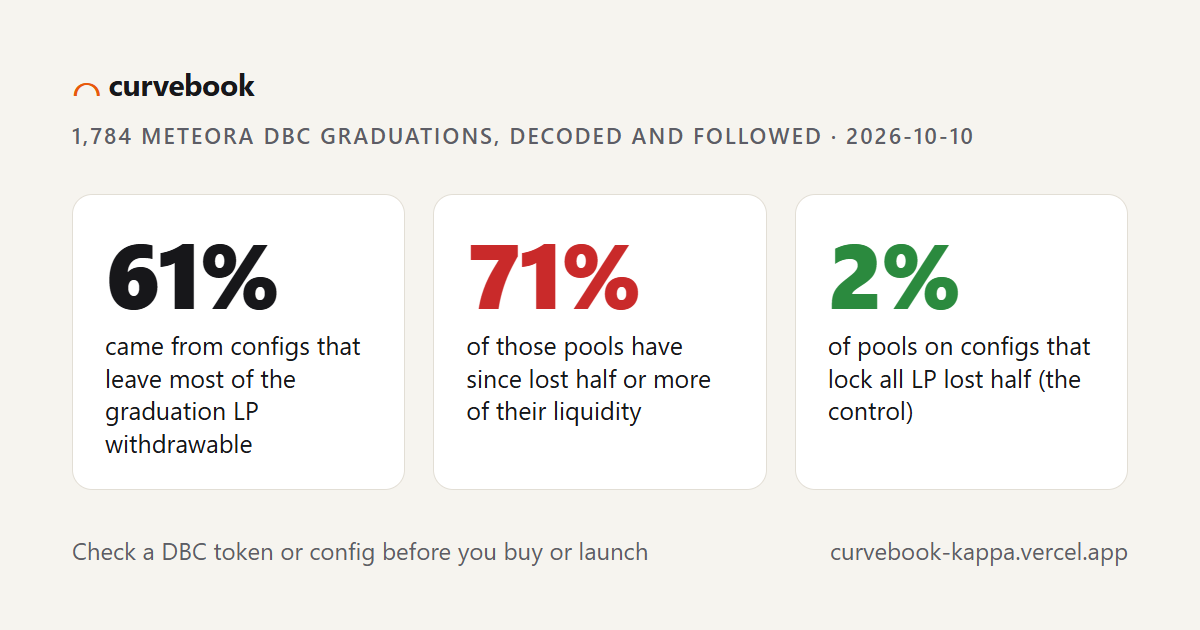
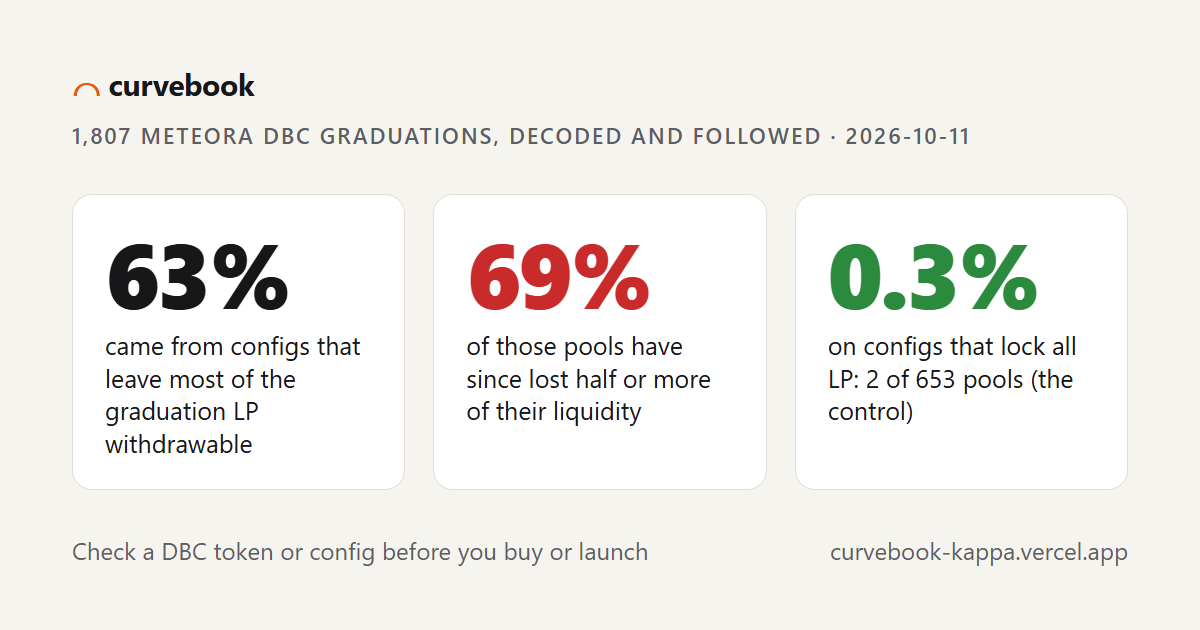
Numbers on the corrected 2026-10-11 snapshot (63% / 69% / control 2 of 653; DAMM v2 42% vs 0 of 466; 258 configs); README documents the control bug and its fix; site shows the GitHub Action and Telegram bot; bot help text no longer breaks HTML

diff --git a/public/submit.html b/public/submit.html
@@ -29,18 +29,18 @@
 <main>
   <h1>curvebook: track submission</h1>
   <p class="sub">Answers for the <a href="https://superteam.fun/earn/listing/meteora-dbc">Meteora DBC listing</a> on Superteam Earn. Copy each field into the form.</p>
-  <p class="sub"><strong>Changed on 2026-10-11:</strong> Project Description and Anything Else? (paste both again). Tweet Link only if you post the new tweet. Every other field is unchanged.</p>
+  <p class="sub"><strong>Changed on 2026-10-12:</strong> Project Description and Anything Else? (paste both again; the numbers were corrected). Then post the correction as a reply to your tweet. Every other field is unchanged.</p>
   <div id="fields"></div>
 </main>
 <script>
 const SITE = 'https://curvebook-kappa.vercel.app'
 const F = [
   ["Link to Your Submission", "https://curvebook-kappa.vercel.app/demo", "Unchanged. Demo video page, with links to the app, examples and GitHub."],
-  ["Tweet Link", "https://x.com/nayrbryanGaming/status/2108845716999422019", "Optional: post the new tweet below, then put its link here. The old tweet still pitches the earlier version."],
-  ["New tweet (not a form field)", "On its curve, a @MeteoraAG DBC token's LP can look 100% locked. The config decides what happens at graduation.\n\n61% of 1,784 recent graduations were on configs leaving most LP withdrawable. 71% of those pools lost half their liquidity. Fully locked: 2%.\n\nhttps://curvebook-kappa.vercel.app", "Post on X fills it in. Attach x-demo.mp4 if you can.", "x"],
-  ["Post for the Meteora dev Discord / Telegram (not a form field)", "Built a free, read-only check for DBC tokens and configs: https://curvebook-kappa.vercel.app\n\nPaste a token, DBC pool or config address and it flags mint authority, LP that is not permanently locked, fees that never decay, creator vesting and sniper advantage; for a graduated token it shows how much of the graduation liquidity is gone. Before graduation a token checker reads the DBC pool as locked, so the config is the only place this shows. Same report as JSON for terminals (GET /api/check?address=...) and from CI: npx tsx scripts/check.ts <config> (exit 1 on a red flag). Repo: https://github.com/bryankwandou/curvebook\n\nData behind it: of 1,784 recent graduations, 61% were on configs leaving most of the LP withdrawable, and 71% of those pools have since lost half their liquidity (2% on fully locked configs). In at least 86 DAMM v2 pools it left within 10 minutes of graduating. Method and control are on the site.\n\nIf you run a launchpad on DBC, I'd value 2 minutes: run it on your config and tell me what it gets wrong or misses.", "Discord: discord.com/channels/841152225564950528/864859354335412224 · Telegram: t.me/meteora_dev (both from the listing). Answer replies yourself; their feedback is the traction."],
+  ["Tweet Link", "https://x.com/nayrbryanGaming/status/2109297041780482350", "Optional: post the new tweet below, then put its link here. The old tweet still pitches the earlier version."],
+  ["Reply under your tweet: the correction (not a form field)", "Correction: our control had a bug. Configs that put the LP in a vesting position were counted as locked.\n\nFixed: on fully locked configs 2 of 653 pools lost half their liquidity (was 14 of 675). On DAMM v2: 42% vs 0 of 466.\n\nData and method: https://github.com/bryankwandou/curvebook#what-happened-to-the-liquidity", "Post on X opens it as a reply to your tweet. Publishing our own correction shows the numbers are checked.", "x", "2109297041780482350"],
+  ["Post for the Meteora dev Discord / Telegram (not a form field)", "Built a free, read-only check for DBC tokens and configs: https://curvebook-kappa.vercel.app\n\nPaste a token, DBC pool or config address and it flags mint authority, LP that is not permanently locked, fees that never decay, creator vesting and sniper advantage; for a graduated token it shows how much of the graduation liquidity is gone. Before graduation a token checker reads the DBC pool as locked, so the config is the only place this shows. Same report as JSON for terminals (GET /api/check?address=...) a GitHub Action for CI (uses: bryankwandou/curvebook@v1, fails on a red flag), and a Telegram bot: @curvebook_check_bot. Repo: https://github.com/bryankwandou/curvebook\n\nData behind it: of 1,807 recent graduations, 63% were on configs leaving most of the LP withdrawable, and 69% of those pools have since lost half their liquidity (2 of 653 on fully locked configs; on DAMM v2, 42% vs 0 of 466). In at least 96 DAMM v2 pools it left within 10 minutes of graduating. Method and control are on the site.\n\nIf you run a launchpad on DBC, I'd value 2 minutes: run it on your config and tell me what it gets wrong or misses.", "Discord: discord.com/channels/841152225564950528/864859354335412224 · Telegram: t.me/meteora_dev (both from the listing). Answer replies yourself; their feedback is the traction."],
   ["Project Name", "curvebook"],
-  ["Project Description", "curvebook checks a Meteora DBC token or config before you buy or launch on it, and shows whether its liquidity can be pulled after graduation.\n\nIn our 2026-10-10 scan of 1,784 recent DBC graduations on mainnet, 61% graduated on configs that leave half or more of the LP withdrawable by the launchpad or creator, and 71% of those pools have since lost half or more of the liquidity they graduated with. On configs that use DBC's permanent lock for all LP, 2% did. In at least 86 DAMM v2 pools the liquidity was removed within 10 minutes of graduating.\n\nBefore graduation this is easy to miss. While a token is on its curve, the DBC pool holds the liquidity, so it reads as locked: on 2026-10-11 RugCheck showed no risks for token 2uH4…azcJ and its DBC market as 100% LP-locked. Its config lets the partner withdraw 89% of the LP at graduation, and 49 of the 50 recent graduations we measured on that config lost half or more of their liquidity. Only the config account says this.\n\nPaste a token, DBC pool or config. curvebook finds the config, reads it from mainnet and flags LP that is not permanently locked, mint authority kept, fees that never decay, creator vesting, and how far ahead early buyers are at graduation. For a graduated token it reads the migration transaction and the DAMM pool today and shows how much of the liquidity is gone. The same report is a free JSON API and SVG badge for trading terminals (/api/check, /api/badge) and a CLI that exits 1 on a red flag, so a launchpad can stop a bad config in CI. A launchpad for stocks or RWAs on DBC can put the badge on every listing to show buyers the graduation LP is locked. Four configs that pass every check are live on mainnet as a starting point.\n\nHow we checked our numbers: the scan and the study rerun daily in GitHub Actions, and CI fails if the locked control starts losing liquidity. Losses are a lower bound. We confirmed cases by hand on Solscan, including a pool where removeAllLiquidity ran 3 min 23 s after graduation. The full DBC lifecycle (launch, buy to 100%, migrateToDammV2, LP permanently locked on DAMM v2) runs on devnet, and one token is launched on mainnet on our Flat Fair config.\n\nNo outside users yet. Next: one launchpad running the check in CI and one terminal showing the badge.", "Changed 2026-10-11: paste this over the old text in the form."],
+  ["Project Description", "curvebook checks a Meteora DBC token or config before you buy or launch on it, and shows whether its liquidity can be pulled after graduation.\n\nIn our 2026-10-11 scan of 1,807 recent DBC graduations on mainnet, 63% graduated on configs that leave half or more of the LP withdrawable by the launchpad or creator, and 69% of those pools have since lost half or more of the liquidity they graduated with. On configs that use DBC's permanent lock for all LP, 2 of 653 did. On DAMM v2 alone it is 42% against 0 of 466. The losses are spread over 258 configs, not one launchpad, and in at least 96 DAMM v2 pools the liquidity was removed within 10 minutes of graduating.\n\nBefore graduation this is easy to miss. While a token is on its curve, the DBC pool holds the liquidity, so it reads as locked: on 2026-10-11 RugCheck showed no risks for token 2uH4…azcJ and its DBC market as 100% LP-locked. Its config lets the partner withdraw 89% of the LP at graduation, and 49 of the 50 recent graduations we measured on that config lost half or more of their liquidity. Only the config account says this.\n\nPaste a token, DBC pool or config. curvebook finds the config, reads it from mainnet and flags LP that is not permanently locked (including LP that vests), mint authority kept, fees that never decay, creator vesting, and how far ahead early buyers are at graduation. For a graduated token it reads the migration transaction and the DAMM pool today and shows how much of the liquidity is gone. The same report is a free JSON API and SVG badge for trading terminals, a GitHub Action that fails a launchpad's CI on a red-flag config (bryankwandou/curvebook@v1), and a Telegram bot (@curvebook_check_bot). We also opened a PR that adds the graduation-LP check to Meteora's fun-launch scaffold (MeteoraAg/meteora-invent#84). A stock or RWA launchpad on DBC can show buyers that its graduation LP is locked. Four configs that pass every check are live on mainnet.\n\nHow we checked our numbers: the scan and the study rerun daily in GitHub Actions, losses are a lower bound, and CI fails if more than 2% of the locked control loses half its liquidity. That control caught a bug in our own classification on 2026-10-11 (vesting LP counted as locked); after the fix it went from 14 of 675 to 2 of 653, both listed in the data. We confirmed cases by hand on Solscan, including a pool where removeAllLiquidity ran 3 min 23 s after graduation. The full DBC lifecycle (launch, buy to 100%, migrateToDammV2, LP permanently locked on DAMM v2) runs on devnet, and one token is launched on mainnet on our Flat Fair config.\n\nNo outside users yet. The bot, the Action and the PR are how we are getting them.", "Changed 2026-10-11: paste this over the old text in the form."],
   ["Project Github Link", "https://github.com/bryankwandou/curvebook"],
   ["Project Website", "https://curvebook-kappa.vercel.app"],
   ["Project X Link", "https://x.com/nayrbryanGaming"],
@@ -48,7 +48,7 @@ const F = [
   ["Did you submit this project to the official Crypto World's Fair Hackathon on Colosseum? (Yes/No)", "No", "curvebook is not a Colosseum project. Do not link Commish here."],
   ["Link to Colosseum project", "", "Leave empty."],
   ["Link to your project's Colosseum profile", "https://colosseum.com/arena/profiles/nayrbryanGaming"],
-  ["Anything Else?", "Try it, one click each:\n- LP pulled after graduation: https://curvebook-kappa.vercel.app/?config=USTdxXk3BZTAX43TjAbrS4Hnb1iVVyvGeqtkvLzLPGJ#inspect\n- All LP locked: https://curvebook-kappa.vercel.app/?config=75qK2pbYCbA85pnHh14q1r24UBpN3xFGNPVwNB5DQrus#inspect\n- Still on the curve, 89% of the LP withdrawable at graduation (the RugCheck example): https://curvebook-kappa.vercel.app/?config=2uH4eUFALeLcG1eZz4feAMkHU7LGxQBUnxwSWXRvazcJ#inspect\n- API: https://curvebook-kappa.vercel.app/api/check?address=2uH4eUFALeLcG1eZz4feAMkHU7LGxQBUnxwSWXRvazcJ\n- Badge: https://curvebook-kappa.vercel.app/api/badge?address=2uH4eUFALeLcG1eZz4feAMkHU7LGxQBUnxwSWXRvazcJ\n\nReproduce (public repo; the scans need your own RPC URL):\n- npm test: risk rules, preset math, the published numbers and the study's control (also runs in CI)\n- npx tsx scripts/check.ts ADDRESS: the CLI check (ADDRESS = any token, DBC pool or config)\n- scripts/scan-graduations.ts and scripts/lp-outcomes.ts: the scan and the liquidity study (graduated-configs.json, lp-outcomes.json, refreshed daily by .github/workflows/data.yml)\n- scripts/verify-mainnet.ts: reads the 4 live configs back from mainnet, 80 checks\n- scripts/devnet-graduate.ts: launch, buy to 100% and migrateToDammV2 on devnet (devnet-graduation.json)\n\nOn mainnet:\n- configs: flat-fair 7Cybv7xUZn3JhvZfGQF9h9s7bLWQhNNcqs1yQVGPprPK, early-discovery FnKvUoL12VZacUE2k4EwhFXHn2xxhoG1wvQYsfgBSsLT, long-curve 6aHuAvXw3BYgR5Wrht8neBPXpmGQej7YWhBK9gbDyf93, stock-pair-usdc 4i2iNBaHyJbbZL5q3TVRudzySRbf8NV3BmhscAiQTEhU\n- launch on flat-fair, createPool tx 5ieP6wibq9FN1vC5fGXwAFrZkKBEjeHQ27ZFnMSyeg6p2PBQ8vDL5WhZnnAwZHYfjTKFKsZcjHjN8KH1dsrZw3Pu\n\nThe README covers the method and its limits: how the DAMM v2 lock holds (read from the program source), why losses are a lower bound, what the scan samples, and how the listing share depends on its thresholds. Video: https://curvebook-kappa.vercel.app/x-demo.mp4", "Changed 2026-10-11: paste this over the old text in the form."]
+  ["Anything Else?", "Try it, one click each:\n- LP pulled after graduation: https://curvebook-kappa.vercel.app/?config=USTdxXk3BZTAX43TjAbrS4Hnb1iVVyvGeqtkvLzLPGJ#inspect\n- All LP locked: https://curvebook-kappa.vercel.app/?config=75qK2pbYCbA85pnHh14q1r24UBpN3xFGNPVwNB5DQrus#inspect\n- Still on the curve, 89% of the LP withdrawable at graduation (the RugCheck example): https://curvebook-kappa.vercel.app/?config=2uH4eUFALeLcG1eZz4feAMkHU7LGxQBUnxwSWXRvazcJ#inspect\n- API: https://curvebook-kappa.vercel.app/api/check?address=2uH4eUFALeLcG1eZz4feAMkHU7LGxQBUnxwSWXRvazcJ\n- Badge: https://curvebook-kappa.vercel.app/api/badge?address=2uH4eUFALeLcG1eZz4feAMkHU7LGxQBUnxwSWXRvazcJ\n- GitHub Action (fails CI on a red flag): https://github.com/bryankwandou/curvebook#github-action-for-launchpads\n- Telegram bot: https://t.me/curvebook_check_bot\n- PR to Meteora's fun-launch scaffold (graduation-LP row in the token checklist): https://github.com/MeteoraAg/meteora-invent/pull/84\n\nReproduce (public repo; the scans need your own RPC URL):\n- npm test: risk rules, preset math, the published numbers and the study's control, which must stay under 2% (also runs in CI)\n- npx tsx scripts/check.ts ADDRESS: the CLI check (ADDRESS = any token, DBC pool or config)\n- scripts/scan-graduations.ts and scripts/lp-outcomes.ts: the scan and the liquidity study (graduated-configs.json, lp-outcomes.json, refreshed daily by .github/workflows/data.yml)\n- scripts/verify-mainnet.ts: reads the 4 live configs back from mainnet, 80 checks\n- scripts/devnet-graduate.ts: launch, buy to 100% and migrateToDammV2 on devnet (devnet-graduation.json)\n\nOn mainnet:\n- configs: flat-fair 7Cybv7xUZn3JhvZfGQF9h9s7bLWQhNNcqs1yQVGPprPK, early-discovery FnKvUoL12VZacUE2k4EwhFXHn2xxhoG1wvQYsfgBSsLT, long-curve 6aHuAvXw3BYgR5Wrht8neBPXpmGQej7YWhBK9gbDyf93, stock-pair-usdc 4i2iNBaHyJbbZL5q3TVRudzySRbf8NV3BmhscAiQTEhU\n- launch on flat-fair, createPool tx 5ieP6wibq9FN1vC5fGXwAFrZkKBEjeHQ27ZFnMSyeg6p2PBQ8vDL5WhZnnAwZHYfjTKFKsZcjHjN8KH1dsrZw3Pu\n\nThe README covers the method and its limits: how the DAMM v2 lock holds (read from the program source), why losses are a lower bound, what the scan samples, and how the listing share depends on its thresholds. Video: https://curvebook-kappa.vercel.app/x-demo.mp4", "Changed 2026-10-11: paste this over the old text in the form."]
 ]
 const root = document.getElementById('fields')
 for (const [label, value, note] of F) {
@@ -69,7 +69,7 @@ for (const [label, value, note] of F) {
     el.querySelector('.head').appendChild(b)
   }
   if (value && F.find((f) => f[0] === label)[3] === 'x') {
-    const a = document.createElement('a'); a.href = 'https://x.com/intent/post?text=' + encodeURIComponent(value); a.target = '_blank'; a.rel = 'noopener'
+    const a = document.createElement('a'); a.href = 'https://x.com/intent/post?text=' + encodeURIComponent(value) + (F.find((f) => f[0] === label)[4] ? '&in_reply_to=' + F.find((f) => f[0] === label)[4] : ''); a.target = '_blank'; a.rel = 'noopener'
     a.textContent = 'Post on X'; a.style.cssText = 'margin-left:8px;font-size:13px;font-weight:600;color:var(--accent)'
     el.querySelector('.head').appendChild(a)
   }

diff --git a/public/demo.html b/public/demo.html
@@ -4,7 +4,7 @@
 <meta charset="UTF-8" />
 <meta name="viewport" content="width=device-width, initial-scale=1.0" />
 <title>curvebook demo</title>
-<meta name="description" content="curvebook demo: check a Meteora DBC token or config before you buy or launch. 61% of recent graduations left most of the LP withdrawable; 71% of those pools have since lost half their liquidity." />
+<meta name="description" content="curvebook demo: check a Meteora DBC token or config before you buy or launch. 63% of recent graduations left most of the LP withdrawable; 69% of those pools have since lost half their liquidity, against 2 of 653 on fully locked configs." />
 <meta property="og:title" content="curvebook demo" />
 <meta property="og:image" content="https://curvebook-kappa.vercel.app/og.png" />
 <meta property="og:video" content="https://curvebook-kappa.vercel.app/x-demo.mp4" />
@@ -28,7 +28,7 @@
 <main>
   <p class="eyebrow">Meteora DBC track · Crypto World's Fair</p>
   <h1>curvebook: check a DBC token or config before you buy or launch</h1>
-  <p>We decoded the configs behind 1,784 recent Meteora DBC graduations (2026-10-10 scan) and followed each pool after it graduated. 61% came from configs that leave most of the graduation LP withdrawable by the launchpad or creator, and 71% of those pools have since lost half or more of the liquidity they graduated with. On configs that lock all LP: 2%. Before graduation a token checker reads the DBC pool as locked; the config decides what happens at graduation, and curvebook reads it. It works for any token, pool or config, as a web check, a free JSON API and badge for trading terminals, and a CLI for launchpad CI. Four configs that pass every check are live on mainnet.</p>
+  <p>We decoded the configs behind 1,807 recent Meteora DBC graduations (2026-10-11 scan) and followed each pool after it graduated. 63% came from configs that leave most of the graduation LP withdrawable by the launchpad or creator, and 69% of those pools have since lost half or more of the liquidity they graduated with. On configs that lock all LP: 2 of 653. On DAMM v2 alone: 42% against 0 of 466. Before graduation a token checker reads the DBC pool as locked; the config decides what happens at graduation, and curvebook reads it. It works for any token, pool or config, as a web check, a free JSON API and badge for trading terminals, a GitHub Action for launchpad CI and a Telegram bot. Four configs that pass every check are live on mainnet.</p>
   <video src="/demo.mp4" poster="/demo-poster.jpg" controls playsinline preload="metadata"></video>
   <div class="links">
     <a class="primary" href="/#inspect">Check a token</a>

diff --git a/index.html b/index.html
@@ -5,11 +5,11 @@
     <link rel="icon" type="image/svg+xml" href="/favicon.svg" />
     <meta name="viewport" content="width=device-width, initial-scale=1.0" />
     <title>curvebook</title>
-    <meta name="description" content="Check a Meteora DBC token or config before you buy or launch: LP lock, mint authority, fee traps. In the 2026-10-10 scan, 61% of 1,784 graduations left most of the LP withdrawable; 71% of those pools have since lost half their liquidity." />
+    <meta name="description" content="Check a Meteora DBC token or config before you buy or launch: LP lock, mint authority, fee traps. In the 2026-10-11 scan, 63% of 1,807 graduations left most of the LP withdrawable; 69% of those pools have since lost half their liquidity, against 2 of 653 on fully locked configs." />
     <meta property="og:type" content="website" />
     <meta property="og:url" content="https://curvebook-kappa.vercel.app/" />
     <meta property="og:title" content="curvebook: check a Meteora DBC token or config before you buy or launch" />
-    <meta property="og:description" content="61% of 1,784 recent DBC graduations (2026-10-10 scan) came from configs that leave most of the LP withdrawable. 71% of those pools have since lost half their liquidity; 2% on configs that lock it." />
+    <meta property="og:description" content="63% of 1,807 recent DBC graduations (2026-10-11 scan) came from configs that leave most of the LP withdrawable. 69% of those pools have since lost half their liquidity; 2 of 653 on configs that lock it." />
     <meta property="og:image" content="https://curvebook-kappa.vercel.app/og.png" />
     <meta property="og:image:width" content="1200" />
     <meta property="og:image:height" content="630" />

diff --git a/src/components/ApiDocs.tsx b/src/components/ApiDocs.tsx
@@ -51,10 +51,16 @@ export function ApiDocs() {
           <pre className="code">{`<a href="${SITE}/?config=<address>#inspect">
   <img src="${SITE}/api/badge?address=<address>" alt="curvebook check">
 </a>`}</pre>
-          <h3>CI</h3>
-          <p className="hint">Gate your own configs before you deploy them: exit code 1 on a red flag (or on a warning with --fail-on warn).</p>
-          <pre className="code">{`git clone https://github.com/bryankwandou/curvebook && cd curvebook && npm ci
-RPC=<your mainnet RPC> npx tsx scripts/check.ts --fail-on warn <config>`}</pre>
+          <h3>GitHub Action</h3>
+          <p className="hint">Gate your configs before they go live: the job fails on a red flag (or on a warning with fail-on: warn). No install step.</p>
+          <pre className="code">{`- uses: bryankwandou/curvebook@v1
+  with:
+    addresses: <your DBC config>`}</pre>
+          <h3>Telegram</h3>
+          <p className="hint">
+            Send a token, pool or config to <a href="https://t.me/curvebook_check_bot">@curvebook_check_bot</a>, or add it to a group and use{' '}
+            <code>/check &lt;address&gt;</code>.
+          </p>
         </div>
       </div>
     </section>

diff --git a/api-src/tg.ts b/api-src/tg.ts
@@ -8,7 +8,7 @@ import { buildReport, headline, type Report } from '../src/lib/report'
 const ADDRESS = /[1-9A-HJ-NP-Za-km-z]{32,44}/
 const SITE = 'https://curvebook-kappa.vercel.app'
 const ICON = { red: '🔴', warn: '🟠', ok: '🟢' }
-const HELP = `Send a Meteora DBC token, pool or config address and I'll check it: LP lock at graduation, mint authority, fee traps, creator vesting, and for a graduated token how much of its liquidity is gone. In a group: /check <address>. Read-only, nothing is signed. ${SITE}`
+const HELP = `Send a Meteora DBC token, pool or config address and I'll check it: LP lock at graduation, mint authority, fee traps, creator vesting, and for a graduated token how much of its liquidity is gone. In a group: /check &lt;address&gt;. Read-only, nothing is signed. ${SITE}`
 
 const esc = (t: string) => t.replace(/[<>&]/g, (c) => ({ '<': '&lt;', '>': '&gt;', '&': '&amp;' })[c]!)
 

diff --git a/README.md b/README.md
@@ -3,11 +3,11 @@
 Pre-launch checks and launch-curve data for [Meteora Dynamic Bonding Curve](https://docs.meteora.ag/developer-guides/dbc). Live: https://curvebook-kappa.vercel.app
 
 A DBC config fixes, for every pool launched on it, the curve, the fees, who can mint, and how much of the
-graduation liquidity stays locked. In the 2026-10-10 scan of 1,784 mainnet graduations, 1,095 (61%) came from configs
-that leave half or more of the graduation LP withdrawable by the launchpad or creator. 71% of those pools have since
-lost half or more of the liquidity they graduated with, against 2% of pools on configs that lock all of it
-([what happened to the liquidity](#what-happened-to-the-liquidity)). In at least 86 DAMM v2 pools it was removed within
-10 minutes of graduating. None of it is visible without decoding the config account.
+graduation liquidity stays locked. In the 2026-10-11 scan of 1,807 mainnet graduations, 1,141 (63%) came from configs
+that leave half or more of the graduation LP withdrawable by the launchpad or creator. 69% of those pools have since
+lost half or more of the liquidity they graduated with, against 2 of 653 pools on configs that lock all of it; on DAMM v2
+alone, 42% against 0 of 466 ([what happened to the liquidity](#what-happened-to-the-liquidity)). In at least 96 DAMM v2
+pools it was removed within 10 minutes of graduating. None of it is visible without decoding the config account.
 
 curvebook decodes it for any token, DBC pool or config: the [Inspector](#config-inspector) in the browser, a
 [JSON API and badge](#api-for-terminals-and-launchpads) for trading terminals, and [`scripts/check.ts`](#pre-launch-check-cli-and-ci)
@@ -235,26 +235,36 @@ The token may have moved along its curve since; the config, and so the flag, doe
 its migration put into the DAMM pool with the pool's liquidity today: the DAMM v2 pool account (liquidity at migration
 from the DAMM events in the migration transaction), or the DAMM v1 LP supply (LP minted at migration; withdrawing burns
 LP). It reads the pool, not the positions, so liquidity moved between positions is not a withdrawal; liquidity added
-since hides withdrawals, so losses are a lower bound. Result on 2026-10-10 ([lp-outcomes.json](lp-outcomes.json)):
+since hides withdrawals, so losses are a lower bound. Result on 2026-10-11 ([lp-outcomes.json](lp-outcomes.json)):
 
 | Config leaves | Graduations | Lost half or more of their graduation liquidity |
 |---|---|---|
-| 50%+ of LP withdrawable, no vesting | 918 | 609 (66%) |
-| 50%+ of LP withdrawable, with a vesting schedule | 177 | 172 (97%) |
+| 50%+ of LP withdrawable, no vesting | 931 | 609 (65%) |
+| 50%+ of LP withdrawable, with a vesting schedule | 210 | 174 (83%) |
 | 1–49% of LP withdrawable | 1 | 0 |
-| 100% of LP permanently locked (control) | 675 | 14 (2%) |
+| 100% of LP permanently locked (control) | 653 | 2 (0.3%) |
+
+Split by DAMM version: on DAMM v2, 219 of 525 pools on withdrawable configs lost half (42%) and 0 of 466 on fully
+locked ones; on DAMM v1, 564 of 616 (92%) and 2 of 187. The pooled share is not one launchpad: the withdrawable pools
+come from 258 configs, the largest is 17% of them, and in 92 configs most pools lost half (the mean of each config's
+own rate is 35%). All of it is in `robustness` in the same file.
 
 Checked by hand: two pools on config `36VxV18i…` minted 309.46B LP at migration and have 33.9B left (11%, the locked
 share); two on `CSsWETyM…` have 3.2% left (3% locked). DAMM v2 pool `BtERBHLy…` graduated at 13:50:08 UTC on 2026-10-10
-and `removeAllLiquidity` ran at 13:53:31. The control is not perfect: 14 pools on fully locked configs, nearly all on a
-few older DAMM v1 configs, also lost liquidity; they are reported, not dropped. `npm test` fails if the control's loss
-rate goes above 10%.
+and `removeAllLiquidity` ran at 13:53:31.
 
-**How soon.** For the 229 DAMM v2 pools that lost half or more, the script walks the DAMM pool's transactions from the
+**The control caught our own bug.** Until 2026-10-11 the control read 14 of 675. Twelve of those were DAMM v2 pools
+whose config puts the LP in a vesting position (partner/creator liquidity percentage 0, permanent lock 0, vesting 100%):
+it becomes withdrawable as it vests, and the classifier counted only the immediately withdrawable share. Withdrawable is
+now 100% minus the permanently locked share, in the scan and in the Inspector's flag. Two DAMM v1 pools remain
+(`BA6zjxW9…`, `BCnVWhXC…`, listed in `robustness.controlLostHalf`); `npm test` fails if the control goes above 2%.
+
+**How soon.** For the 219 DAMM v2 pools that lost half or more, the script walks the DAMM pool's transactions from the
 migration forward and finds the first `removeLiquidity` or `removeAllLiquidity` (outer or CPI; the pool, so a removal
-from a split-off position is still caught). In 105 it is among the first 40 transactions: median 2.7 minutes after
-graduating, 86 within 10 minutes, 97 within the hour. The other 124 were removed later than their 40th transaction, so
-"at least 86 within 10 minutes" is a lower bound. DAMM v1 pools are not timed.
+from a split-off position is still caught). In 117 it is among the first 40 transactions: median 6 minutes after
+graduating, 96 within 10 minutes, 109 within the hour. The other 102 were removed later than their 40th transaction, so
+"at least 96 within 10 minutes" is a lower bound. This identifies the transaction, not the wallet's intent:
+a launchpad taking its LP share as revenue looks the same as a rug. DAMM v1 pools are not timed.
 
 **Per config.** `byConfig` in the same file lists the 25 configs with the most graduations. A withdrawable LP is a
 permission, not a verdict: `9q4yEJsV…` leaves it withdrawable and none of its 57 pools lost half, while `CSsWETyM…`
